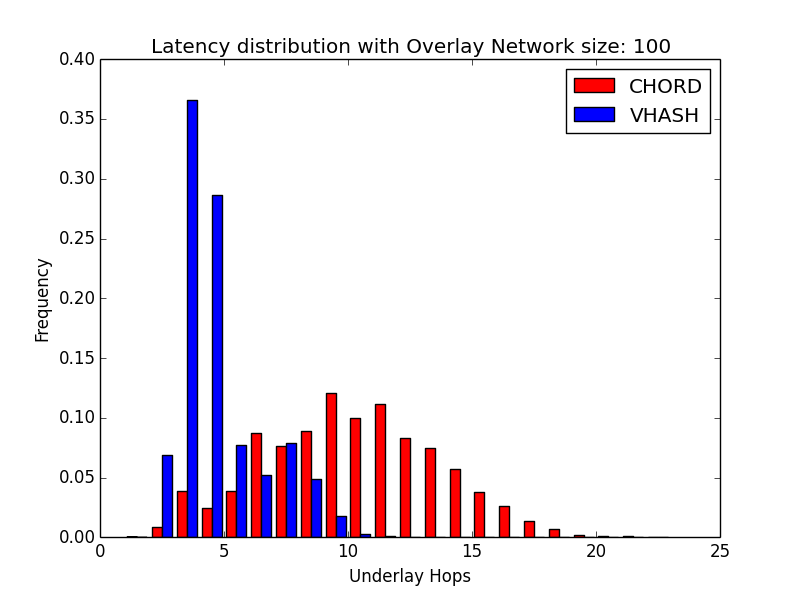
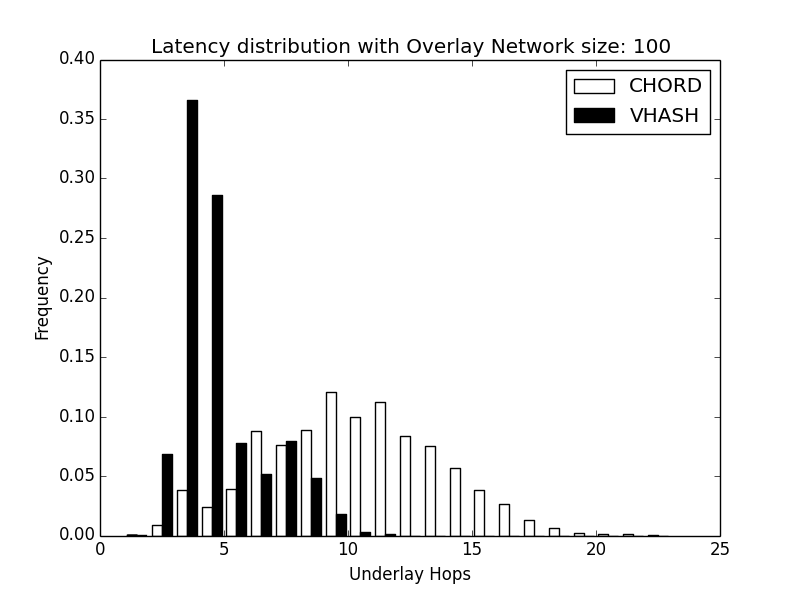
added lack and white histograms

diff --git a/New folder/histogramer.py b/New folder/histogramer.py
@@ -37,7 +37,7 @@ for s in results.keys():
             binmax = tmpmax
     print len(data)
 
-    plt.hist(data,normed=1, bins = range(1,binmax+1),label=results[s].keys(),color=["red","blue"])
+    plt.hist(data,normed=1, bins = range(1,binmax+1),label=results[s].keys(),color=["white","black"])
     plt.xlabel('Underlay Hops')
     plt.ylabel('Frequency')
     plt.title('Latency distribution with Overlay Network size: ' + str(s))
